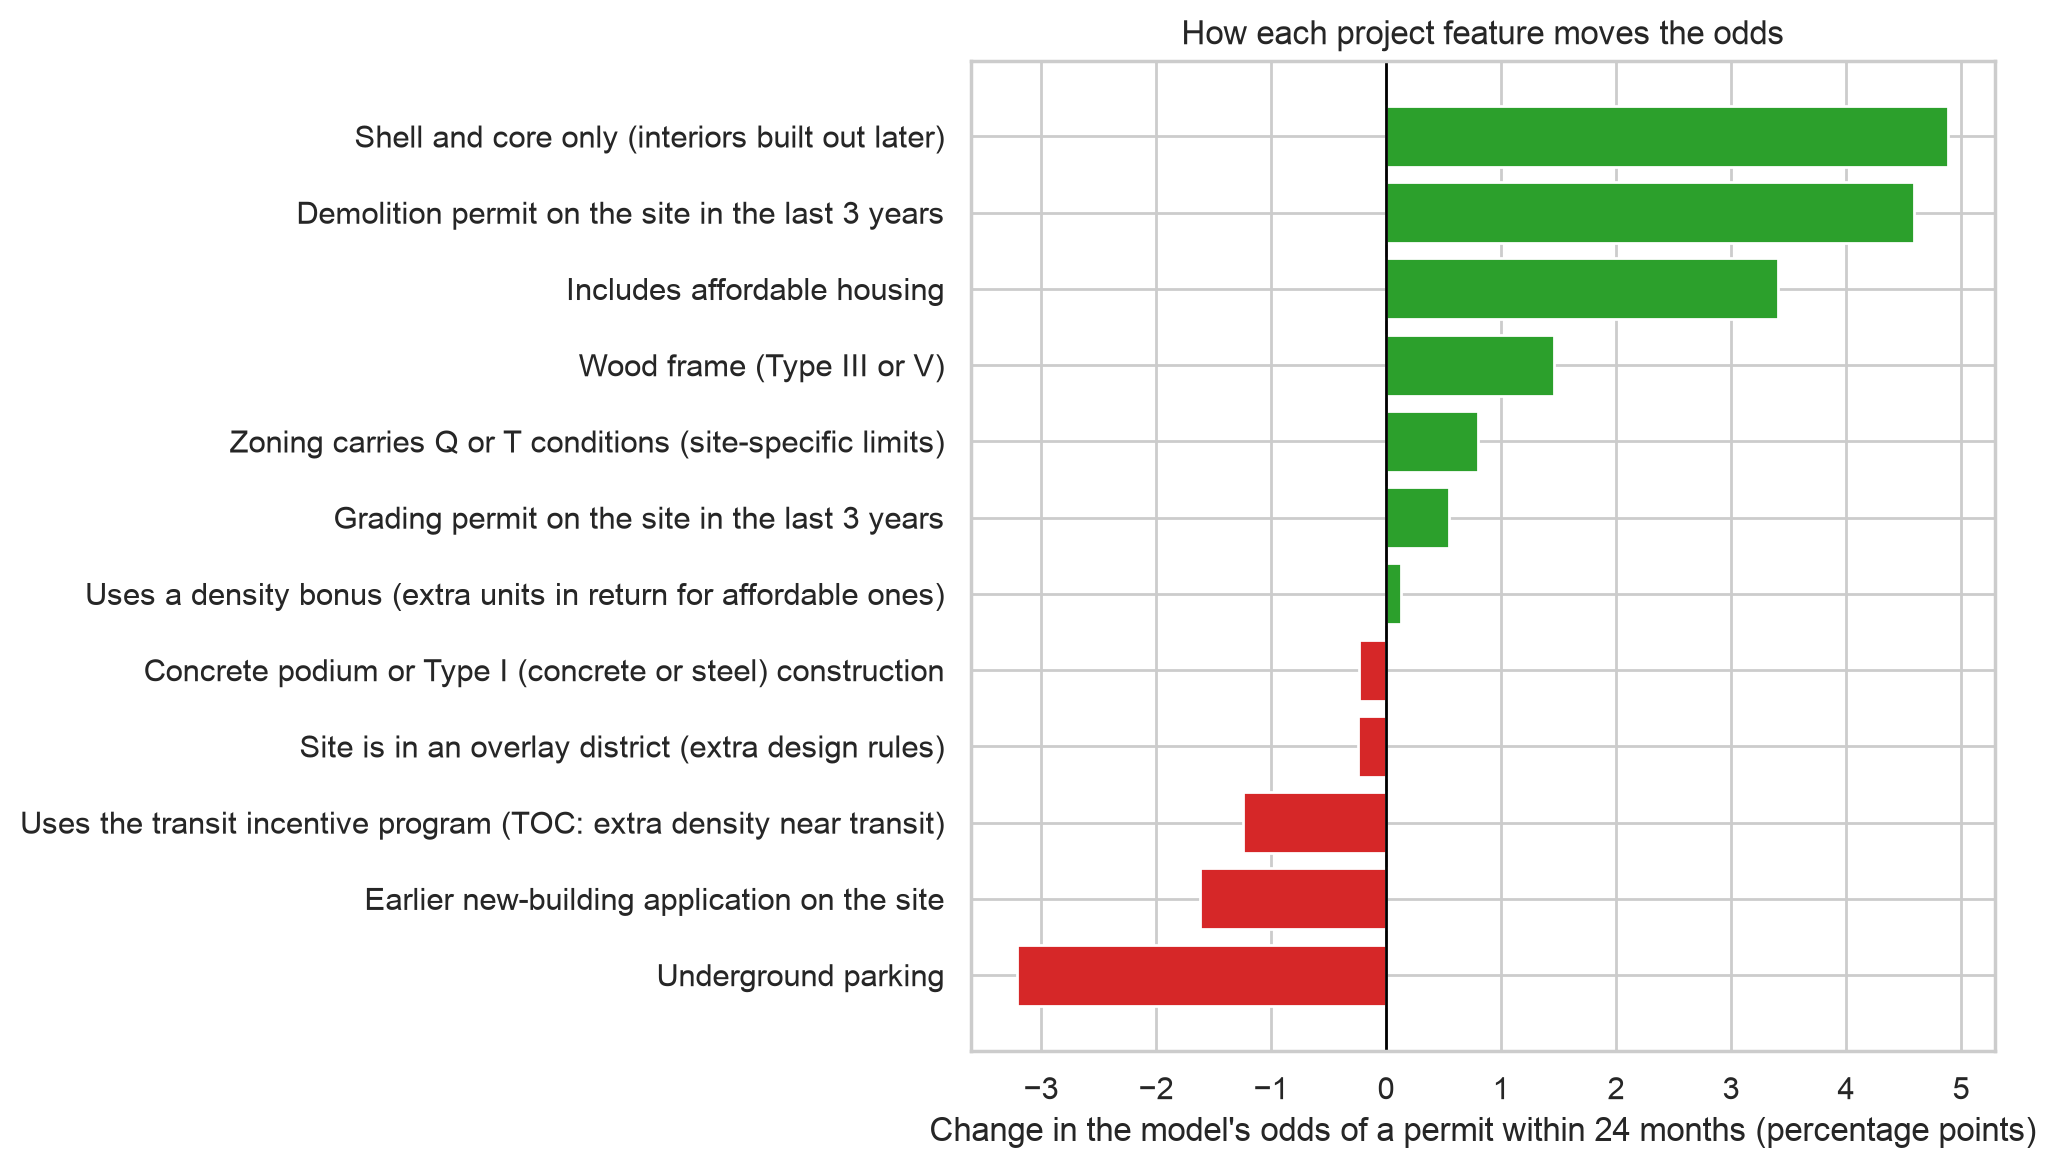
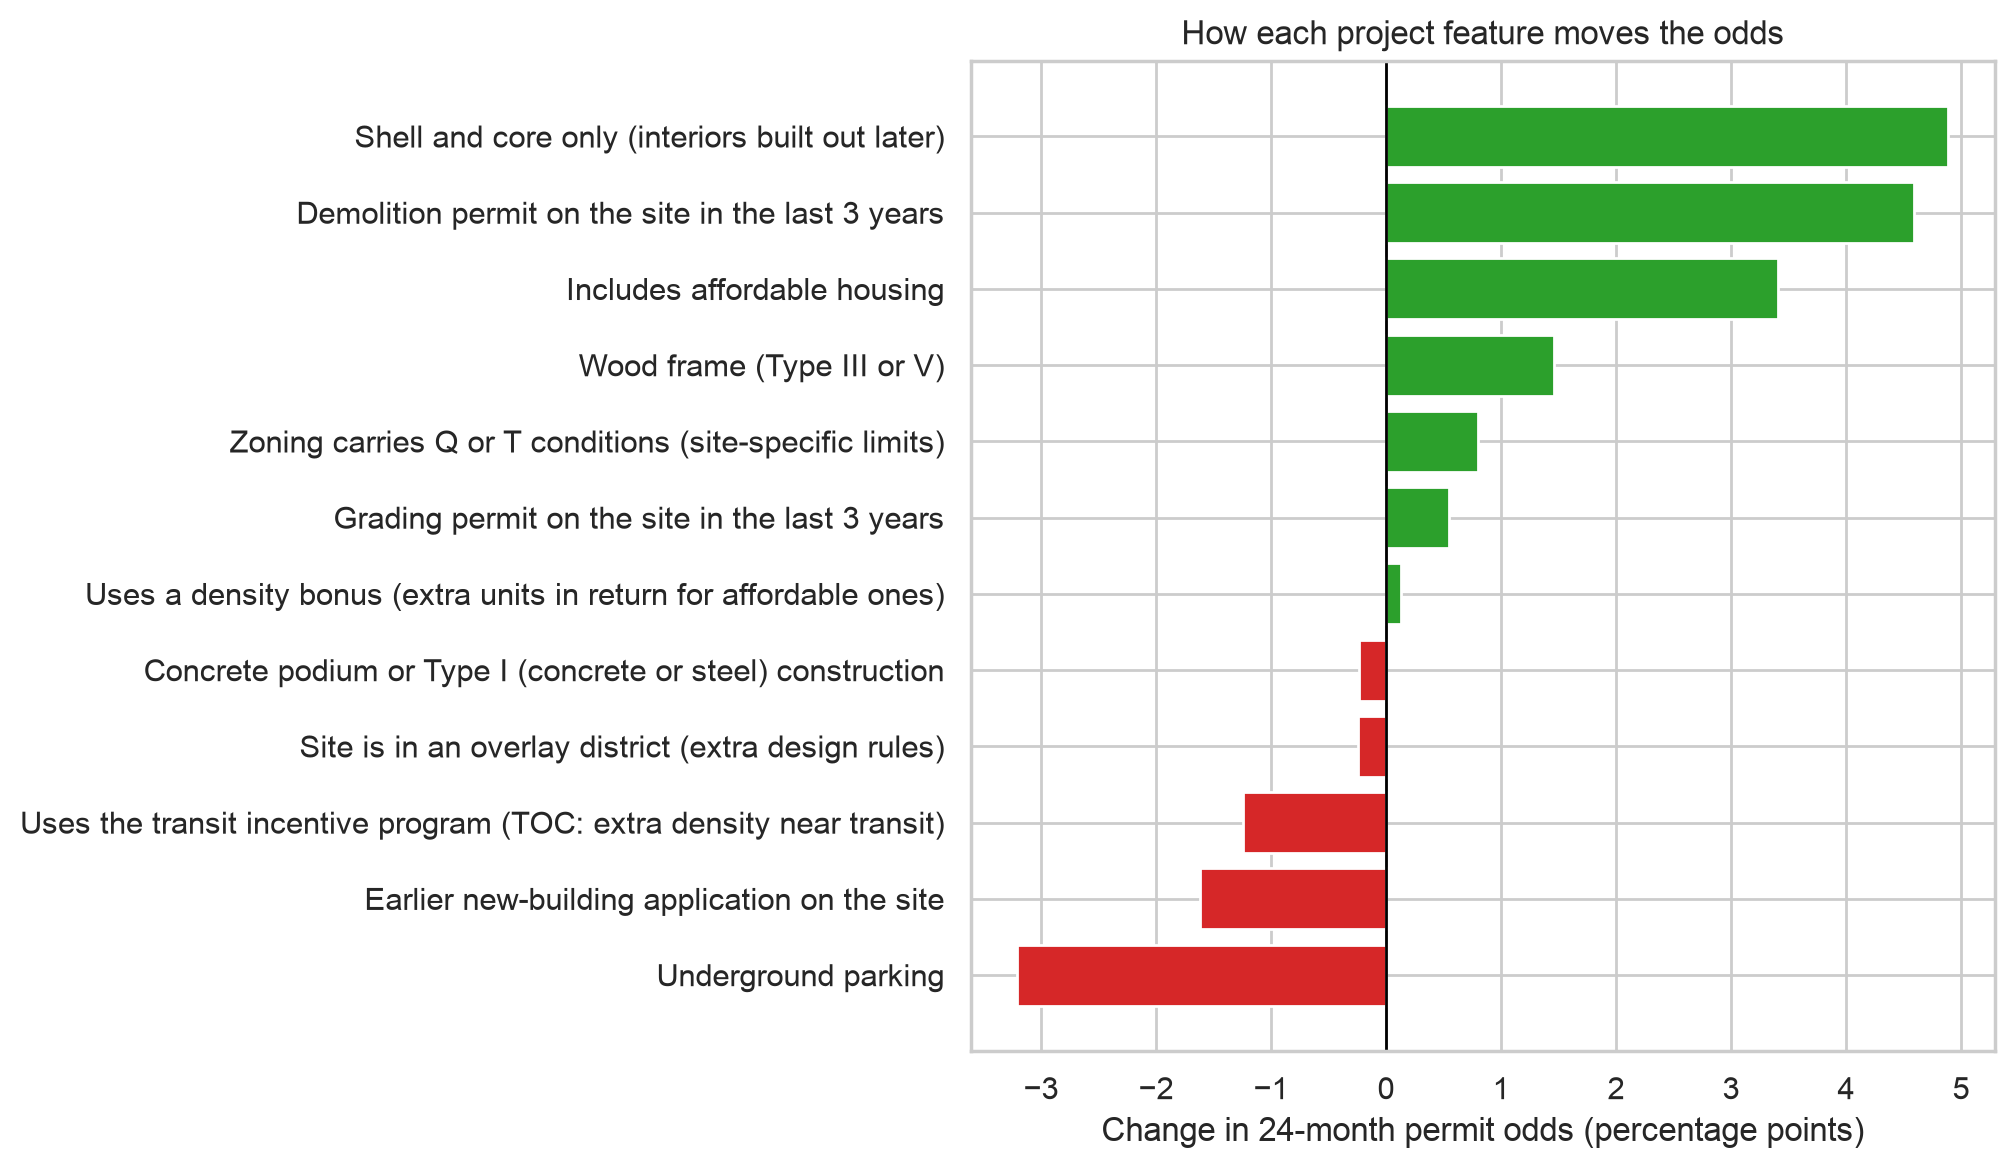
Shorten a chart label that was cut off in Colab; add project notes

diff --git a/notebook_src/128_drivers_chart.py b/notebook_src/128_drivers_chart.py
@@ -11,7 +11,7 @@ effects = pd.Series(effects).sort_values()
 plt.figure(figsize=(10, 6))
 plt.barh(effects.index, effects.values, color=np.where(effects.values < 0, "#d62728", "#2ca02c"))
 plt.axvline(0, color="black", linewidth=1)
-plt.xlabel("Change in the model's odds of a permit within 24 months (percentage points)")
+plt.xlabel("Change in 24-month permit odds (percentage points)")
 plt.title("How each project feature moves the odds")
 plt.tight_layout()
 plt.show()

diff --git a/CLAUDE.md b/CLAUDE.md
@@ -1,0 +1,12 @@
+# LA Permit Timeline Predictor
+
+MAIA (Marshall AI Association) team project. Poster due 2026-11-24, demo day 2026-12-04.
+
+- The notebook is generated. Edit the cell files in `notebook_src/` (name order; `.md` text, `.py` code), then run `.venv/bin/python build_notebook.py` (public copy at the repo root) and `.venv/bin/python build_notebook.py --with-team` (hand-in copy in `deliverable/`, with the team cell). Never edit an `.ipynb` by hand.
+- `notebook_src/001_team.md` and `deliverable/` are gitignored on purpose: teammate names stay out of the public repo.
+- Team rules for all code: no comments, no docstrings, no emojis, never name the project "V" anything. Plain English in every text cell.
+- Test with `.venv/bin/python research/run_cells.py` (runs every cell against local `data/`, saves charts to `figures/`). Then execute the notebook with nbconvert, then Run all in Colab from `https://colab.research.google.com/github/mjingram123/permit-predictor/blob/main/LA_Permit_Timeline_Predictor.ipynb`.
+- The notebook reads helper tables from this repo's `data/` folder on GitHub, so push data changes before testing in Colab.
+- Never use `use_desc`, `square_footage`, `height` or `construction` as model inputs: the city fills them in during review, so they leak the outcome. They appear only in the cheating-model demo.
+- Still-waiting projects count a part-observed month as a part month (`exposure` in `081_odds_functions.py`). Dropping or fully counting that month changes the scores noticeably.
+- Every score is a time-split backtest with labels frozen at the cutoff. Do not add a random split.
